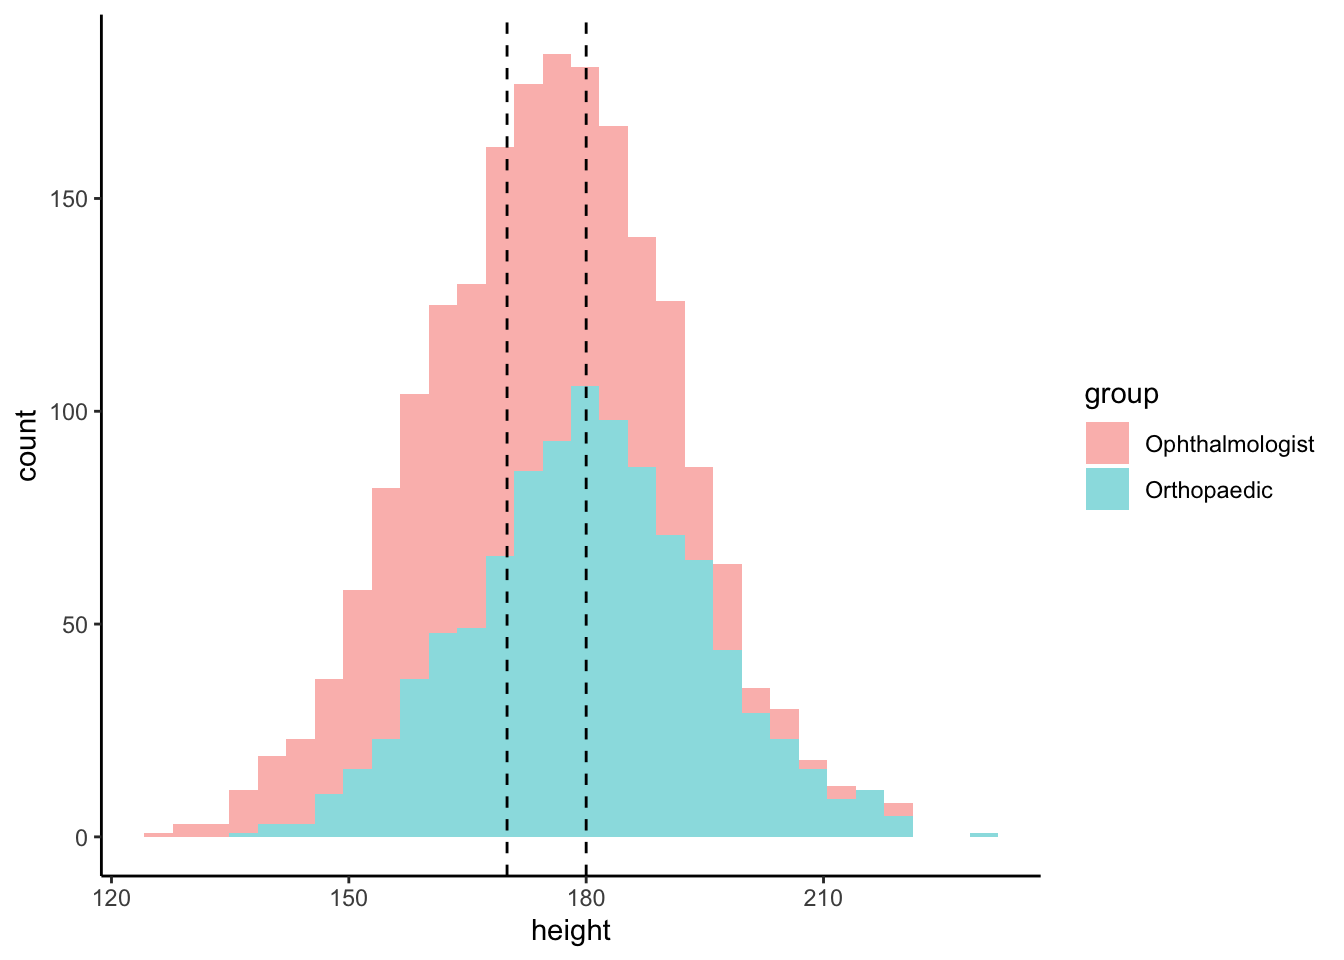
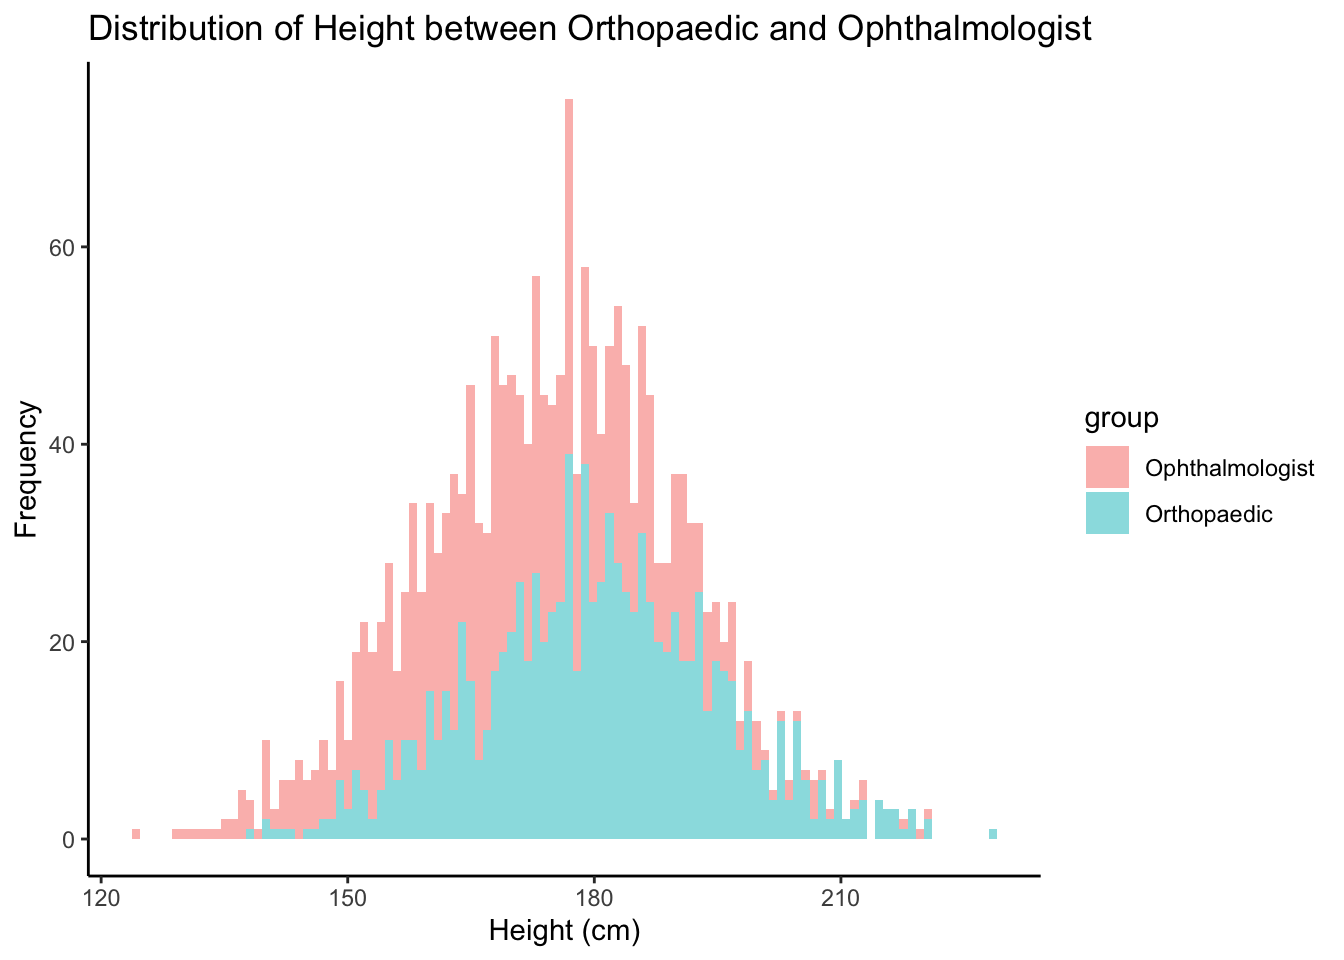
first commit

diff --git a/blog/ResearchQuestion_SampleSize.html b/blog/ResearchQuestion_SampleSize.html
@@ -216,7 +216,7 @@ window.Quarto = {
 </blockquote>
 </section>
 <section id="we-should-keep-in-mind" class="level2">
-<h2 class="anchored" data-anchor-id="we-should-keep-in-mind">we Should keep in mind</h2>
+<h2 class="anchored" data-anchor-id="we-should-keep-in-mind">We should keep in mind</h2>
 <ul>
 <li>we can also keep in mind the data types. Briefly, data types can be:
 <ul>
@@ -260,187 +260,6 @@ n = \frac{\left(Z_{1-\alpha/2} + Z_{1-\beta}\right)^2 \, \sigma^2}{\Delta^2}
 <section id="what-will-this-data-look-like" class="level1">
 <h1>What will this data look like?</h1>
 <div class="cell">
-<div class="cell-output cell-output-stderr">
-<pre><code>Loading required package: lubridate</code></pre>
-</div>
-<div class="cell-output cell-output-stderr">
-<pre><code>
-Attaching package: 'lubridate'</code></pre>
-</div>
-<div class="cell-output cell-output-stderr">
-<pre><code>The following objects are masked from 'package:base':
-
-    date, intersect, setdiff, union</code></pre>
-</div>
-<div class="cell-output cell-output-stderr">
-<pre><code>Loading required package: conflicted</code></pre>
-</div>
-<div class="cell-output cell-output-stderr">
-<pre><code>Loading required package: data.table</code></pre>
-</div>
-<div class="cell-output cell-output-stderr">
-<pre><code>
-Attaching package: 'data.table'</code></pre>
-</div>
-<div class="cell-output cell-output-stderr">
-<pre><code>The following objects are masked from 'package:lubridate':
-
-    hour, isoweek, mday, minute, month, quarter, second, wday, week,
-    yday, year</code></pre>
-</div>
-<div class="cell-output cell-output-stderr">
-<pre><code>Loading required package: dplyr</code></pre>
-</div>
-<div class="cell-output cell-output-stderr">
-<pre><code>
-Attaching package: 'dplyr'</code></pre>
-</div>
-<div class="cell-output cell-output-stderr">
-<pre><code>The following objects are masked from 'package:data.table':
-
-    between, first, last</code></pre>
-</div>
-<div class="cell-output cell-output-stderr">
-<pre><code>The following objects are masked from 'package:stats':
-
-    filter, lag</code></pre>
-</div>
-<div class="cell-output cell-output-stderr">
-<pre><code>The following objects are masked from 'package:base':
-
-    intersect, setdiff, setequal, union</code></pre>
-</div>
-<div class="cell-output cell-output-stderr">
-<pre><code>Loading required package: dtplyr</code></pre>
-</div>
-<div class="cell-output cell-output-stderr">
-<pre><code>Loading required package: flextable</code></pre>
-</div>
-<div class="cell-output cell-output-stderr">
-<pre><code>Loading required package: forcats</code></pre>
-</div>
-<div class="cell-output cell-output-stderr">
-<pre><code>Loading required package: fuzzyjoin</code></pre>
-</div>
-<div class="cell-output cell-output-stderr">
-<pre><code>Loading required package: ggh4x</code></pre>
-</div>
-<div class="cell-output cell-output-stderr">
-<pre><code>Loading required package: ggplot2</code></pre>
-</div>
-<div class="cell-output cell-output-stderr">
-<pre><code>Loading required package: grates</code></pre>
-</div>
-<div class="cell-output cell-output-stderr">
-<pre><code>
-Attaching package: 'grates'</code></pre>
-</div>
-<div class="cell-output cell-output-stderr">
-<pre><code>The following objects are masked from 'package:data.table':
-
-    isoweek, year</code></pre>
-</div>
-<div class="cell-output cell-output-stderr">
-<pre><code>The following objects are masked from 'package:lubridate':
-
-    epiweek, isoweek, year</code></pre>
-</div>
-<div class="cell-output cell-output-stderr">
-<pre><code>Loading required package: gtsummary</code></pre>
-</div>
-<div class="cell-output cell-output-stderr">
-<pre><code>
-Attaching package: 'gtsummary'</code></pre>
-</div>
-<div class="cell-output cell-output-stderr">
-<pre><code>The following object is masked from 'package:flextable':
-
-    continuous_summary</code></pre>
-</div>
-<div class="cell-output cell-output-stderr">
-<pre><code>Loading required package: haven</code></pre>
-</div>
-<div class="cell-output cell-output-stderr">
-<pre><code>Loading required package: janitor</code></pre>
-</div>
-<div class="cell-output cell-output-stderr">
-<pre><code>
-Attaching package: 'janitor'</code></pre>
-</div>
-<div class="cell-output cell-output-stderr">
-<pre><code>The following objects are masked from 'package:stats':
-
-    chisq.test, fisher.test</code></pre>
-</div>
-<div class="cell-output cell-output-stderr">
-<pre><code>Loading required package: knitr</code></pre>
-</div>
-<div class="cell-output cell-output-stderr">
-<pre><code>Loading required package: magrittr</code></pre>
-</div>
-<div class="cell-output cell-output-stderr">
-<pre><code>Loading required package: readxl</code></pre>
-</div>
-<div class="cell-output cell-output-stderr">
-<pre><code>Loading required package: sf</code></pre>
-</div>
-<div class="cell-output cell-output-stderr">
-<pre><code>Linking to GEOS 3.11.0, GDAL 3.5.3, PROJ 9.1.0; sf_use_s2() is TRUE</code></pre>
-</div>
-<div class="cell-output cell-output-stderr">
-<pre><code>Loading required package: stringdist</code></pre>
-</div>
-<div class="cell-output cell-output-stderr">
-<pre><code>
-Attaching package: 'stringdist'</code></pre>
-</div>
-<div class="cell-output cell-output-stderr">
-<pre><code>The following object is masked from 'package:magrittr':
-
-    extract</code></pre>
-</div>
-<div class="cell-output cell-output-stderr">
-<pre><code>Loading required package: stringr</code></pre>
-</div>
-<div class="cell-output cell-output-stderr">
-<pre><code>Loading required package: tidyverse</code></pre>
-</div>
-<div class="cell-output cell-output-stderr">
-<pre><code>── Attaching core tidyverse packages ──────────────────────── tidyverse 2.0.0 ──
-✔ purrr  1.0.2     ✔ tibble 3.2.1
-✔ readr  2.1.5     ✔ tidyr  1.3.1
-Loading required package: tinytex
-
-Loading required package: zoo
-
-
-Attaching package: 'zoo'
-
-
-The following objects are masked from 'package:data.table':
-
-    yearmon, yearqtr
-
-
-The following objects are masked from 'package:base':
-
-    as.Date, as.Date.numeric</code></pre>
-</div>
-<div class="cell-output cell-output-stderr">
-<pre><code>Warning: replacing previous import 'grates::isoweek' by 'lubridate::isoweek'
-when loading 'NMCleaner'</code></pre>
-</div>
-<div class="cell-output cell-output-stderr">
-<pre><code>Warning: replacing previous import 'grates::epiweek' by 'lubridate::epiweek'
-when loading 'NMCleaner'</code></pre>
-</div>
-<div class="cell-output cell-output-stderr">
-<pre><code>Warning: replacing previous import 'grates::year' by 'lubridate::year' when
-loading 'NMCleaner'</code></pre>
-</div>
-<div class="cell-output cell-output-stderr">
-<pre><code>`stat_bin()` using `bins = 30`. Pick better value with `binwidth`.</code></pre>
-</div>
 <div class="cell-output-display">
 <div>
 <figure class="figure">
